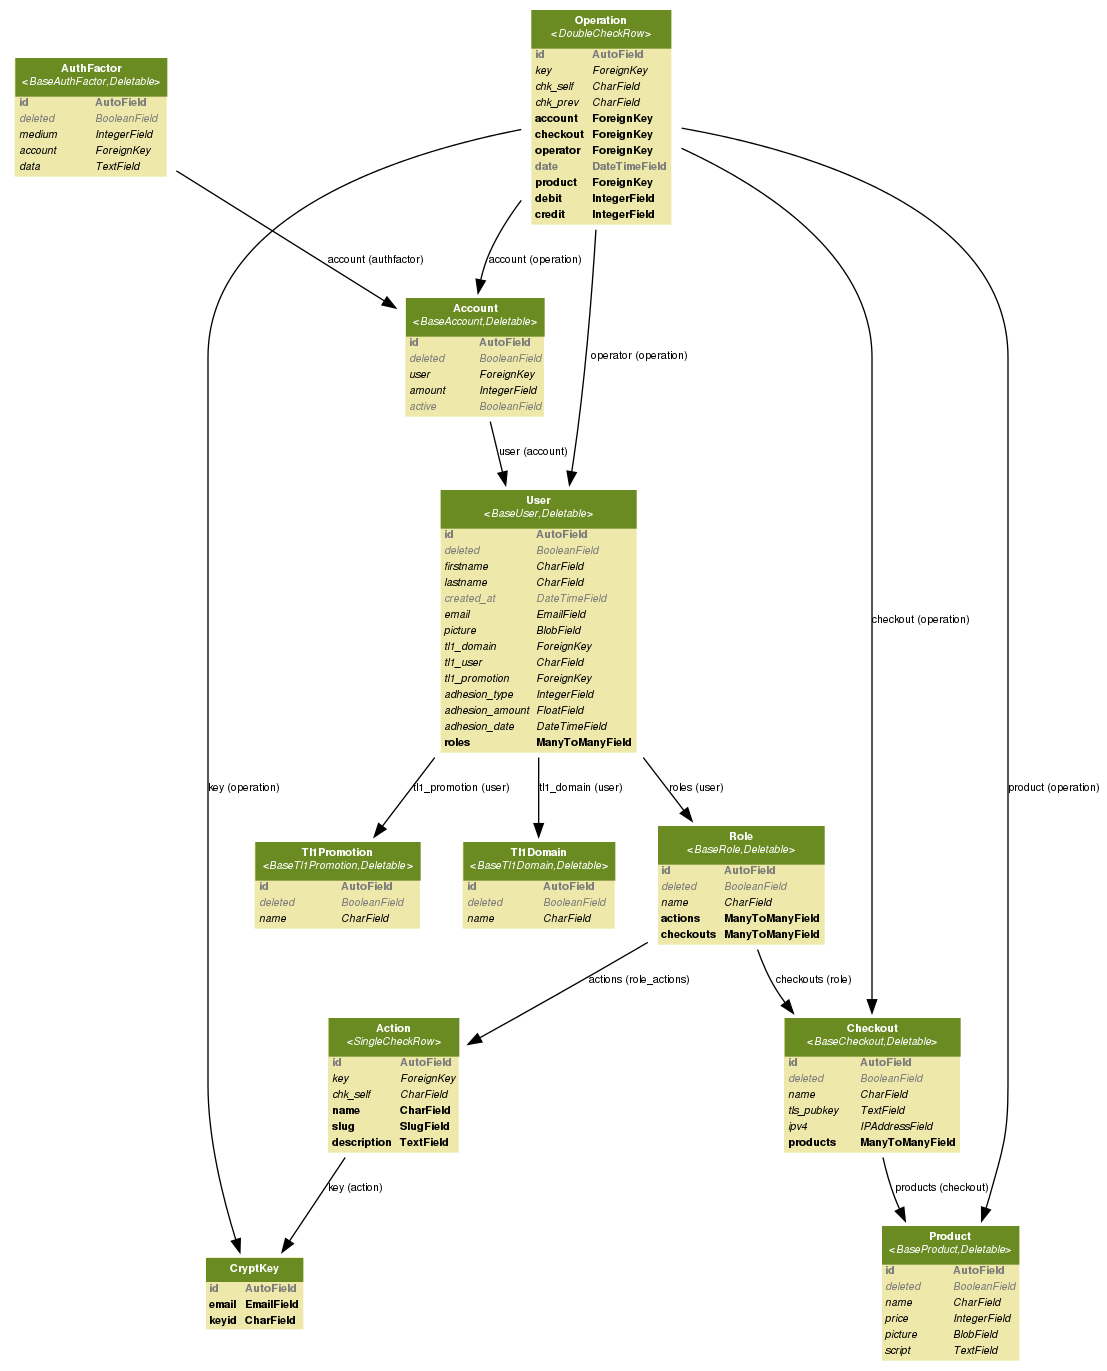
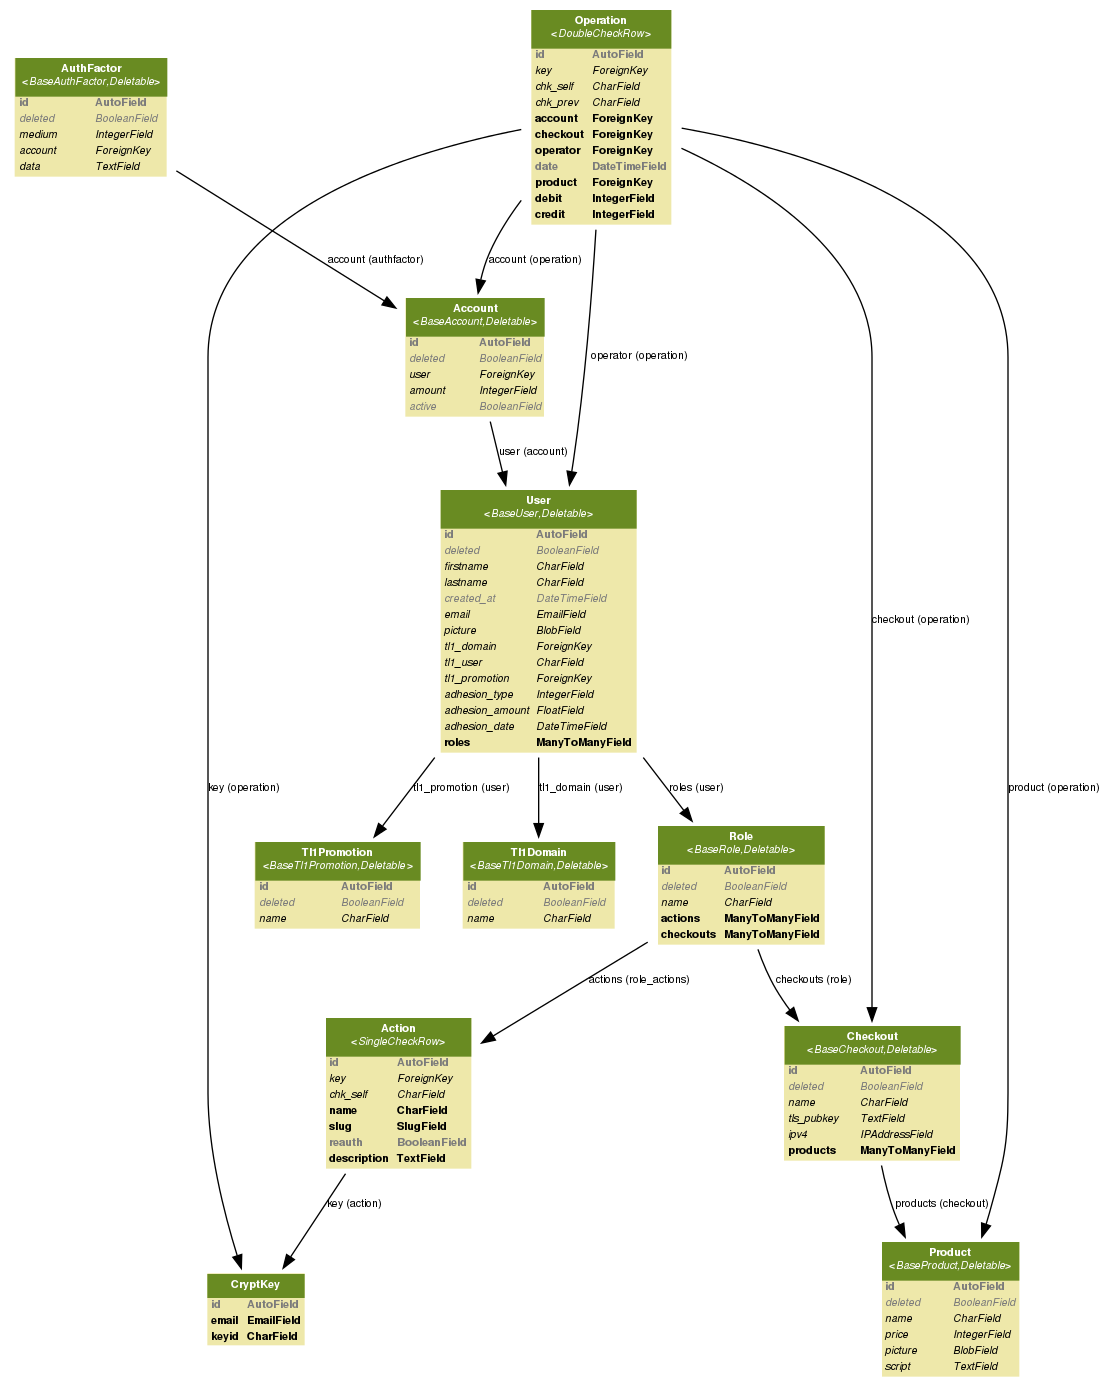
Lots of things

diff --git a/src/karted.py b/src/karted.py
@@ -8,6 +8,7 @@ import json
 import auth
 from auth import check_auth
 import misc
+from stockings import StockingsFactory
 
 KarteErrors = {
 	'BadAttr': (101, 'Bad Attribute'),
@@ -23,6 +24,18 @@ for name, value in KarteErrors.items():
 	KarteErrorsMap[value[0]] = (name, value[1])
 
 DEBUG = True
+
+def make_answer(seq, json, **kwargs):
+	out = {
+		'action': 'answer',
+		'seq': seq,
+		'asked': json['action']
+	}
+
+	out.update(kwargs)
+
+	return out
+
 
 class JsonReceiver(LineReceiver, object):
 	delimiter = '\n'
@@ -56,11 +69,18 @@ class KarteProtocol(JsonReceiver):
 		self.init_done = False
 		self.seq = 0
 		self.auth = auth.AuthManager(None)
+		self.sf = StockingsFactory()
 
 		self.actions = {
 			'debit': self.doDebit,
 			'credit': self.doCredit,
 			'auth-checkout': self.doAuthCheckout,
+			'model-get': self.doModelGet,
+			'model-data': self.doModelData,
+			'model-check-more-data': self.doModelCheckMoreData,
+			'model-get-more-data': self.doModelGetMoreData,
+			'model-filter': self.doModelFilter,
+			'model-headers': self.doModelHeaders,
 		}
 
 	def getOperatorId(self):
@@ -87,7 +107,7 @@ class KarteProtocol(JsonReceiver):
 	def jsonReceived(self, json):
 		try:
 			seq = json.get('seq', None)
-			action = json["action"]
+			action = json["action"].split(" ")[0]
 
 			# Sequence number control
 			self.seq += 1
@@ -107,6 +127,7 @@ class KarteProtocol(JsonReceiver):
 					self.sendError('VerMis', seq)
 					self.stopProducing()
 				else:
+					self.sendJson(make_answer(seq, json, ack=True))
 					self.init_done = True
 
 			else:
@@ -150,89 +171,134 @@ class KarteProtocol(JsonReceiver):
 
 	@check_auth(['debit'])
 	def doDebit(self, seq, json):
-		self.sendJson(['coucou'])
+		print "Operation: %d" % json['amount']
 
 	@check_auth(['credit'])
 	def doCredit(self, seq, json):
 		pass
 
-	# Product Management
-	def doProductFetch(self, seq, json):
-		pass
+	@check_auth('json')
+	def doModelGet(self, seq, json):
+		name = json['action'].split(' ')[1]
+		mid = self.sf.getModel(name)
 
-	def doProductUpdate(self, seq, json):
-		pass
+		msg = {
+			'action': 'result',
+			'asked': json['action'],
+			'seq': seq,
+			'model-id': mid
+		}
+		self.sendJson(msg)
 
-	def doProductDelete(self, seq, json):
-		pass
+	@check_auth('json')
+	def doModelData(self, seq, json):
+		model = self.sf.fromId(json['model-id'])
+		data = model.data()
 
-	def doProductAdd(self, seq, json):
-		pass
+		self.sendJson(make_answer(seq, json, data=data))
 
-	# Checkout Management
-	def doCheckoutFetch(self, seq, json):
-		pass
+	@check_auth('json')
+	def doModelCheckMoreData(self, seq, json):
+		model = self.sf.fromId(json['model-id'])
 
-	def doCheckoutUpdate(self, seq, json):
-		pass
+		self.sendJson(make_answer(seq, json, has_more_data=model.checkMoreData()))
 
-	def doCheckoutDelete(self, seq, json):
-		pass
+	@check_auth('json')
+	def doModelGetMoreData(self, seq, json):
+		model = self.sf.fromId(json['model-id'])
 
-	def doCheckoutAdd(self, seq, json):
-		pass
+		self.sendJson(make_answer(seq, json, data=model.getMoreData()))
 
-	# Role Management
-	def doRoleFetch(self, seq, json):
-		pass
+	@check_auth('json')
+	def doModelFilter(self, seq, json):
+		model = self.sf.fromId(json['model-id'])
+		model.filtr(json['filtr'])
 
-	def doRoleUpdate(self, seq, json):
-		pass
+		self.sendJson(make_answer(seq, json, ack=True))
 
-	def doRoleDelete(self, seq, json):
-		pass
+	@check_auth('json')
+	def doModelHeaders(self, seq, json):
+		print self.sf.models
+		model = self.sf.fromId(json['model-id'])
 
-	def doRoleAdd(self, seq, json):
-		pass
+		self.sendJson(make_answer(seq, json, data=model.headers()))
+	## Product Management
+	#def doProductFetch(self, seq, json):
+	#	pass
 
-	# Tl1 Domains Management
-	def doTl1DomainFetch(self, seq, json):
-		pass
+	#def doProductUpdate(self, seq, json):
+	#	pass
 
-	def doTl1DomainUpdate(self, seq, json):
-		pass
+	#def doProductDelete(self, seq, json):
+	#	pass
 
-	def doTl1DomainDelete(self, seq, json):
-		pass
+	#def doProductAdd(self, seq, json):
+	#	pass
 
-	def doTl1DomainAdd(self, seq, json):
-		pass
+	## Checkout Management
+	#def doCheckoutFetch(self, seq, json):
+	#	pass
 
-	# Tl1 Promotion Management
-	def doTl1PromotionFetch(self, seq, json):
-		pass
+	#def doCheckoutUpdate(self, seq, json):
+	#	pass
 
-	def doTl1PromotionUpdate(self, seq, json):
-		pass
+	#def doCheckoutDelete(self, seq, json):
+	#	pass
 
-	def doTl1PromotionDelete(self, seq, json):
-		pass
+	#def doCheckoutAdd(self, seq, json):
+	#	pass
 
-	def doTl1PromotionAdd(self, seq, json):
-		pass
+	## Role Management
+	#def doRoleFetch(self, seq, json):
+	#	pass
 
-	# User Management
-	def doUserFetch(self, seq, json):
-		pass
+	#def doRoleUpdate(self, seq, json):
+	#	pass
 
-	def doUserUpdate(self, seq, json):
-		pass
+	#def doRoleDelete(self, seq, json):
+	#	pass
 
-	def doUserDelete(self, seq, json):
-		pass
+	#def doRoleAdd(self, seq, json):
+	#	pass
 
-	def doUserAdd(self, seq, json):
-		pass
+	## Tl1 Domains Management
+	#def doTl1DomainFetch(self, seq, json):
+	#	pass
+
+	#def doTl1DomainUpdate(self, seq, json):
+	#	pass
+
+	#def doTl1DomainDelete(self, seq, json):
+	#	pass
+
+	#def doTl1DomainAdd(self, seq, json):
+	#	pass
+
+	## Tl1 Promotion Management
+	#def doTl1PromotionFetch(self, seq, json):
+	#	pass
+
+	#def doTl1PromotionUpdate(self, seq, json):
+	#	pass
+
+	#def doTl1PromotionDelete(self, seq, json):
+	#	pass
+
+	#def doTl1PromotionAdd(self, seq, json):
+	#	pass
+
+	## User Management
+	#def doUserFetch(self, seq, json):
+	#	pass
+
+	#def doUserUpdate(self, seq, json):
+	#	pass
+
+	#def doUserDelete(self, seq, json):
+	#	pass
+
+	#def doUserAdd(self, seq, json):
+	#	pass
 
 class KarteFactory(Factory):
 	protocol = KarteProtocol

diff --git a/src/stockings.py b/src/stockings.py
@@ -1,0 +1,76 @@
+# -*- encoding: utf-8 -*-
+
+class StockingsException(Exception):
+	pass
+
+class StockingsModelNotFound(StockingsException):
+	pass
+
+class StockingsModelNoInstance(StockingsException):
+	pass
+
+class Stockings(object):
+	def __init__(self):
+		pass
+
+	def headers(self):
+		return ('Void',)
+
+	def data(self):
+		return [(1, 'None',)]
+
+	def checkMoreData(self):
+		return False
+
+	def getMoreData(self):
+		return []
+
+class ProductsModel(Stockings):
+	def headers(self):
+		return ('Name', 'Price')
+
+	def data(self):
+		return [
+			(1, 'Karmeliet', 4200, ""),
+			(2, 'Kwak', 2712, ""),
+			(3, 'Chimay', 4323, ""),
+		]
+
+	def checkMoreData(self):
+		return not hasattr(self, '_sentmore')
+
+	def getMoreData(self):
+		if not self.checkMoreData():
+			return []
+
+		self._sentmore = True
+		return [
+			(4, 'Cuvée des Trolls', 9867, "")
+		]
+
+	def filtr(self, filtr):
+		pass
+
+class StockingsFactory(object):
+	def __init__(self):
+		self.models = []
+
+	def getModel(self, name):
+		cls = {
+			'Void': Stockings,
+			'Products': ProductsModel,
+		}
+
+		if not name in cls:
+			raise StockingsModelNotFound()
+
+		mid = len(self.models)
+		self.models.append(cls[name]())
+
+		return mid
+
+	def fromId(self, mid):
+		if mid >= len(self.models):
+			raise StockingsModelNoInstance()
+
+		return self.models[mid]

diff --git a/src/auth.py b/src/auth.py
@@ -10,12 +10,16 @@ def check_auth(actions=[], init=True):
 				obj.sendError('Unexpected', seq)
 				return
 
-			for a in actions:
-				if not obj.getAuth().authorizeAction(a, obj.getOperatorId(), obj.getCheckoutId(), json.get('client', None)):
-					obj.sendError('Forbidden', seq)
-					return
+			#if actions == 'json':
+			#	actions = [json['action']]
+			#actions = [json['action']]
 
-				return f(obj, seq, json)
+			#for a in actions:
+			#	if not obj.getAuth().authorizeAction(a, obj.getOperatorId(), obj.getCheckoutId(), json.get('client', None)):
+			#		obj.sendError('Forbidden', seq)
+			#		return
+
+			return f(obj, seq, json)
 		return wrapper
 	return wrap
 

diff --git a/django-db-model/settings.py b/django-db-model/settings.py
@@ -84,11 +84,6 @@ TEMPLATE_DIRS = (
 )
 
 INSTALLED_APPS = (
-    'django.contrib.auth',
-    'django.contrib.contenttypes',
-    'django.contrib.sessions',
-    'django.contrib.sites',
-    'django.contrib.messages',
     'karte',
     'django_extensions',
     # Uncomment the next line to enable the admin:

diff --git a/django-db-model/karte/models.py b/django-db-model/karte/models.py
@@ -148,6 +148,7 @@ class Product(BaseProduct, Deletable):
 class Action(SingleCheckRow):
 	name = models.CharField(max_length = 50)
 	slug = models.SlugField()
+	reauth = models.BooleanField(default=False)
 	description = models.TextField()
 
 class Operation(DoubleCheckRow):

diff --git a/src/db.py b/src/db.py
@@ -1,0 +1,4 @@
+from twisted.enterprise import adbapi
+import config
+
+dbpool = adbapi.ConnectionPool(config.DB_MODULE, database=config.DB_BASE, user=config.DB_USER, host=config.DB_HOST, password=config.DB_PASS)

diff --git a/src/config.py b/src/config.py
@@ -1,0 +1,7 @@
+# -*- encoding: utf-8 -*-
+
+DB_MODULE = "psycopg2"
+DB_HOST = "localhost"
+DB_USER = "karte"
+DB_PASS = "tagada"
+DB_BASE = "karte"
